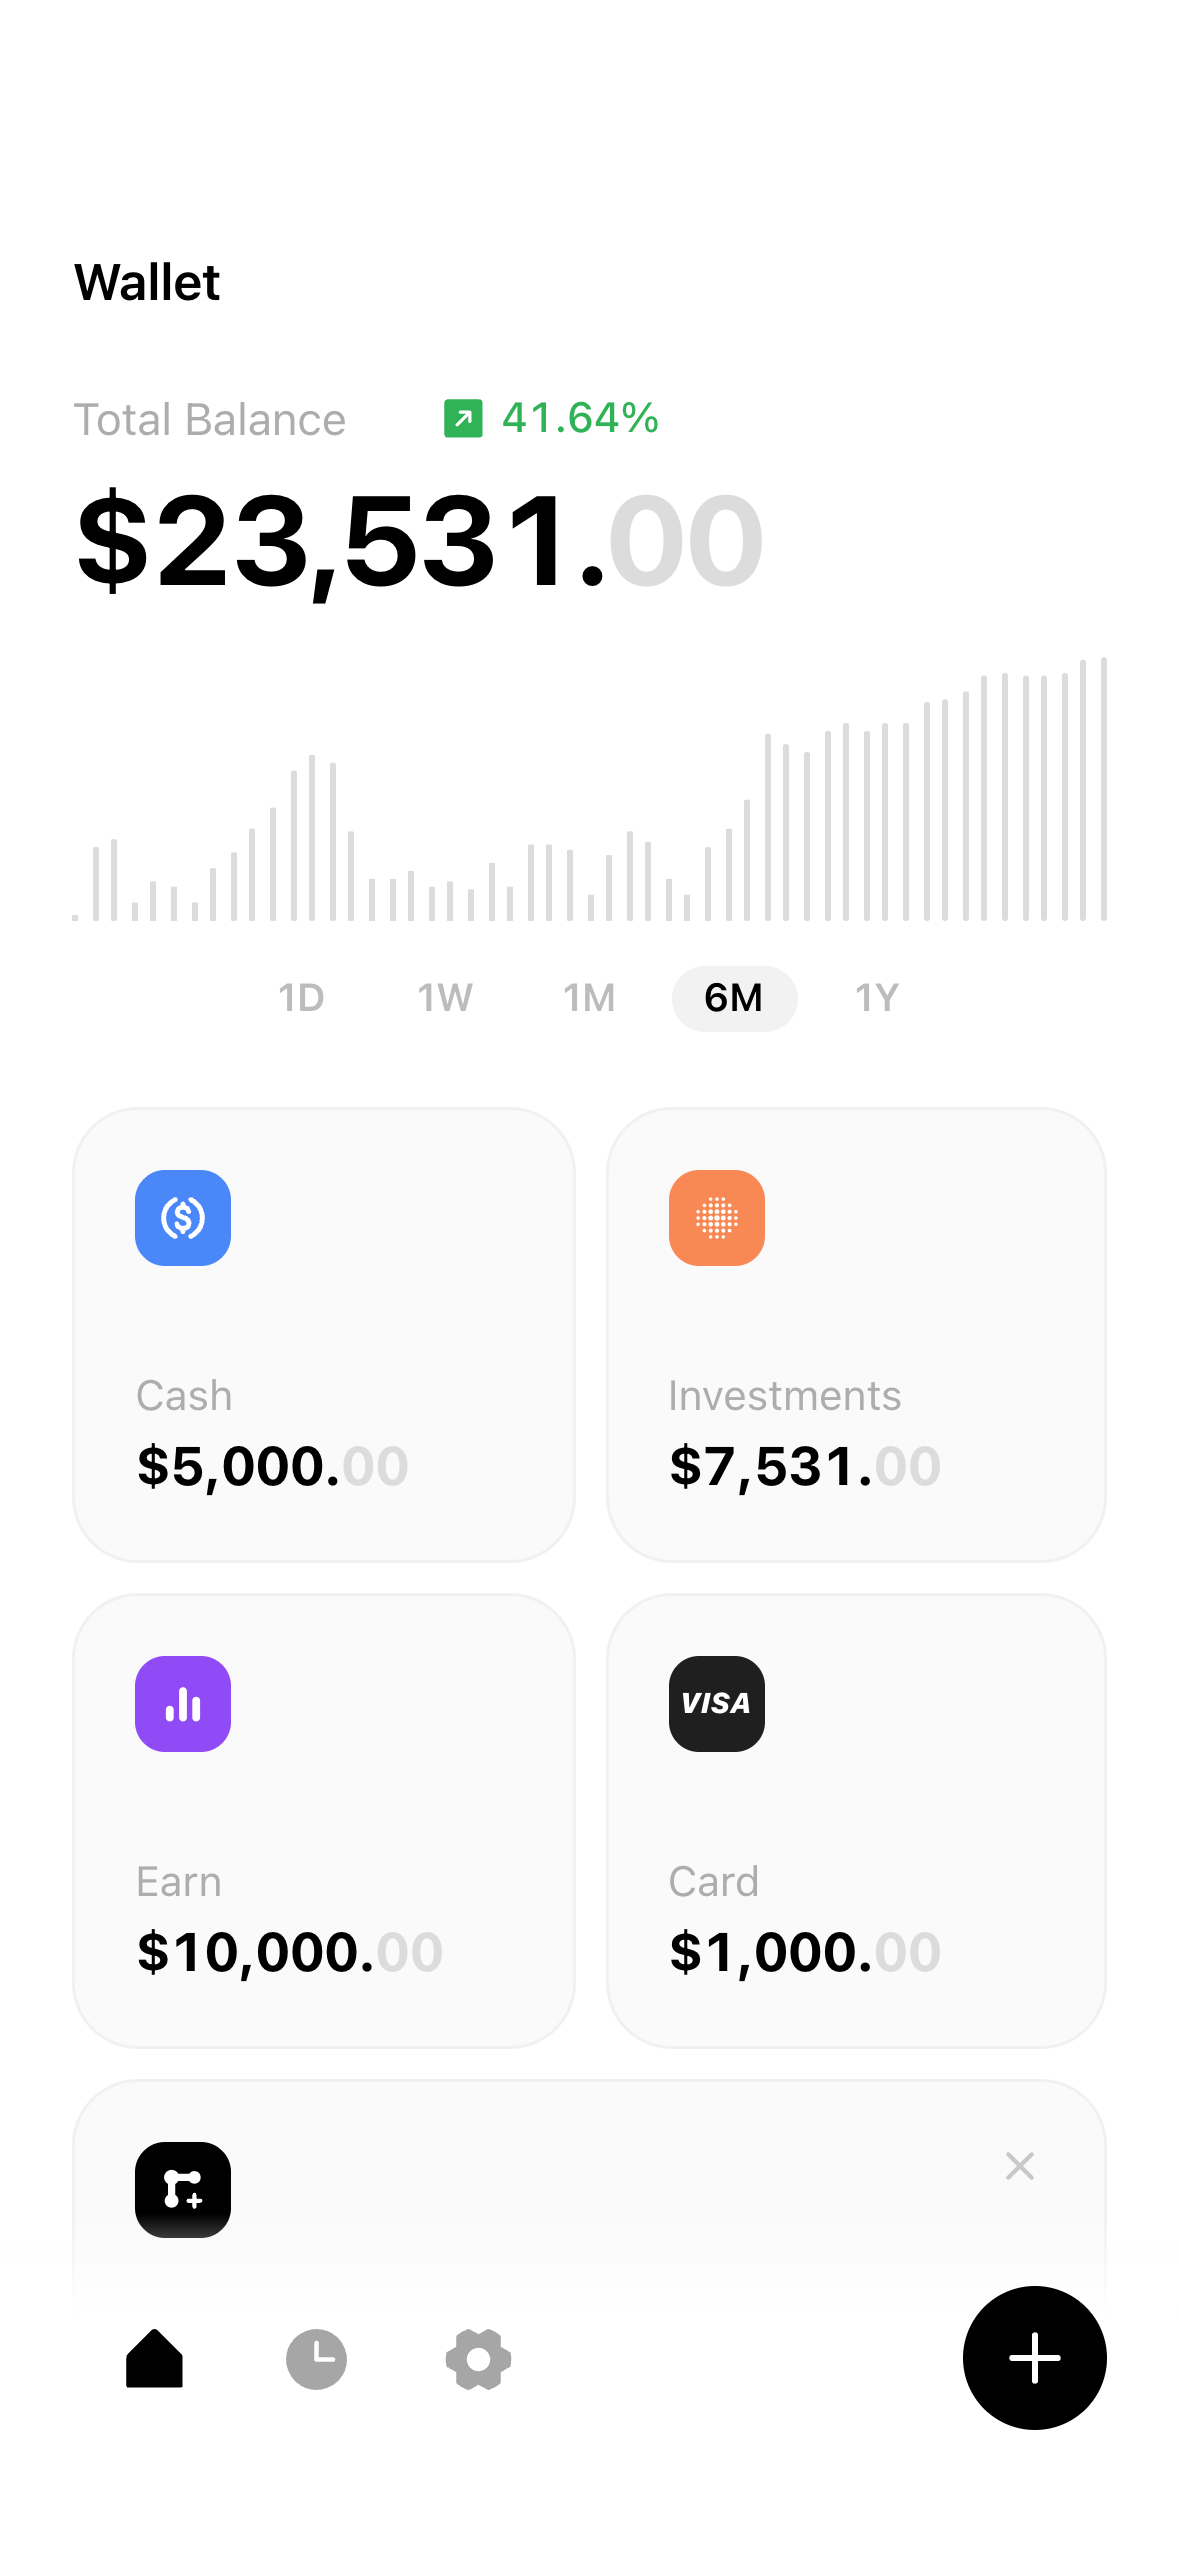
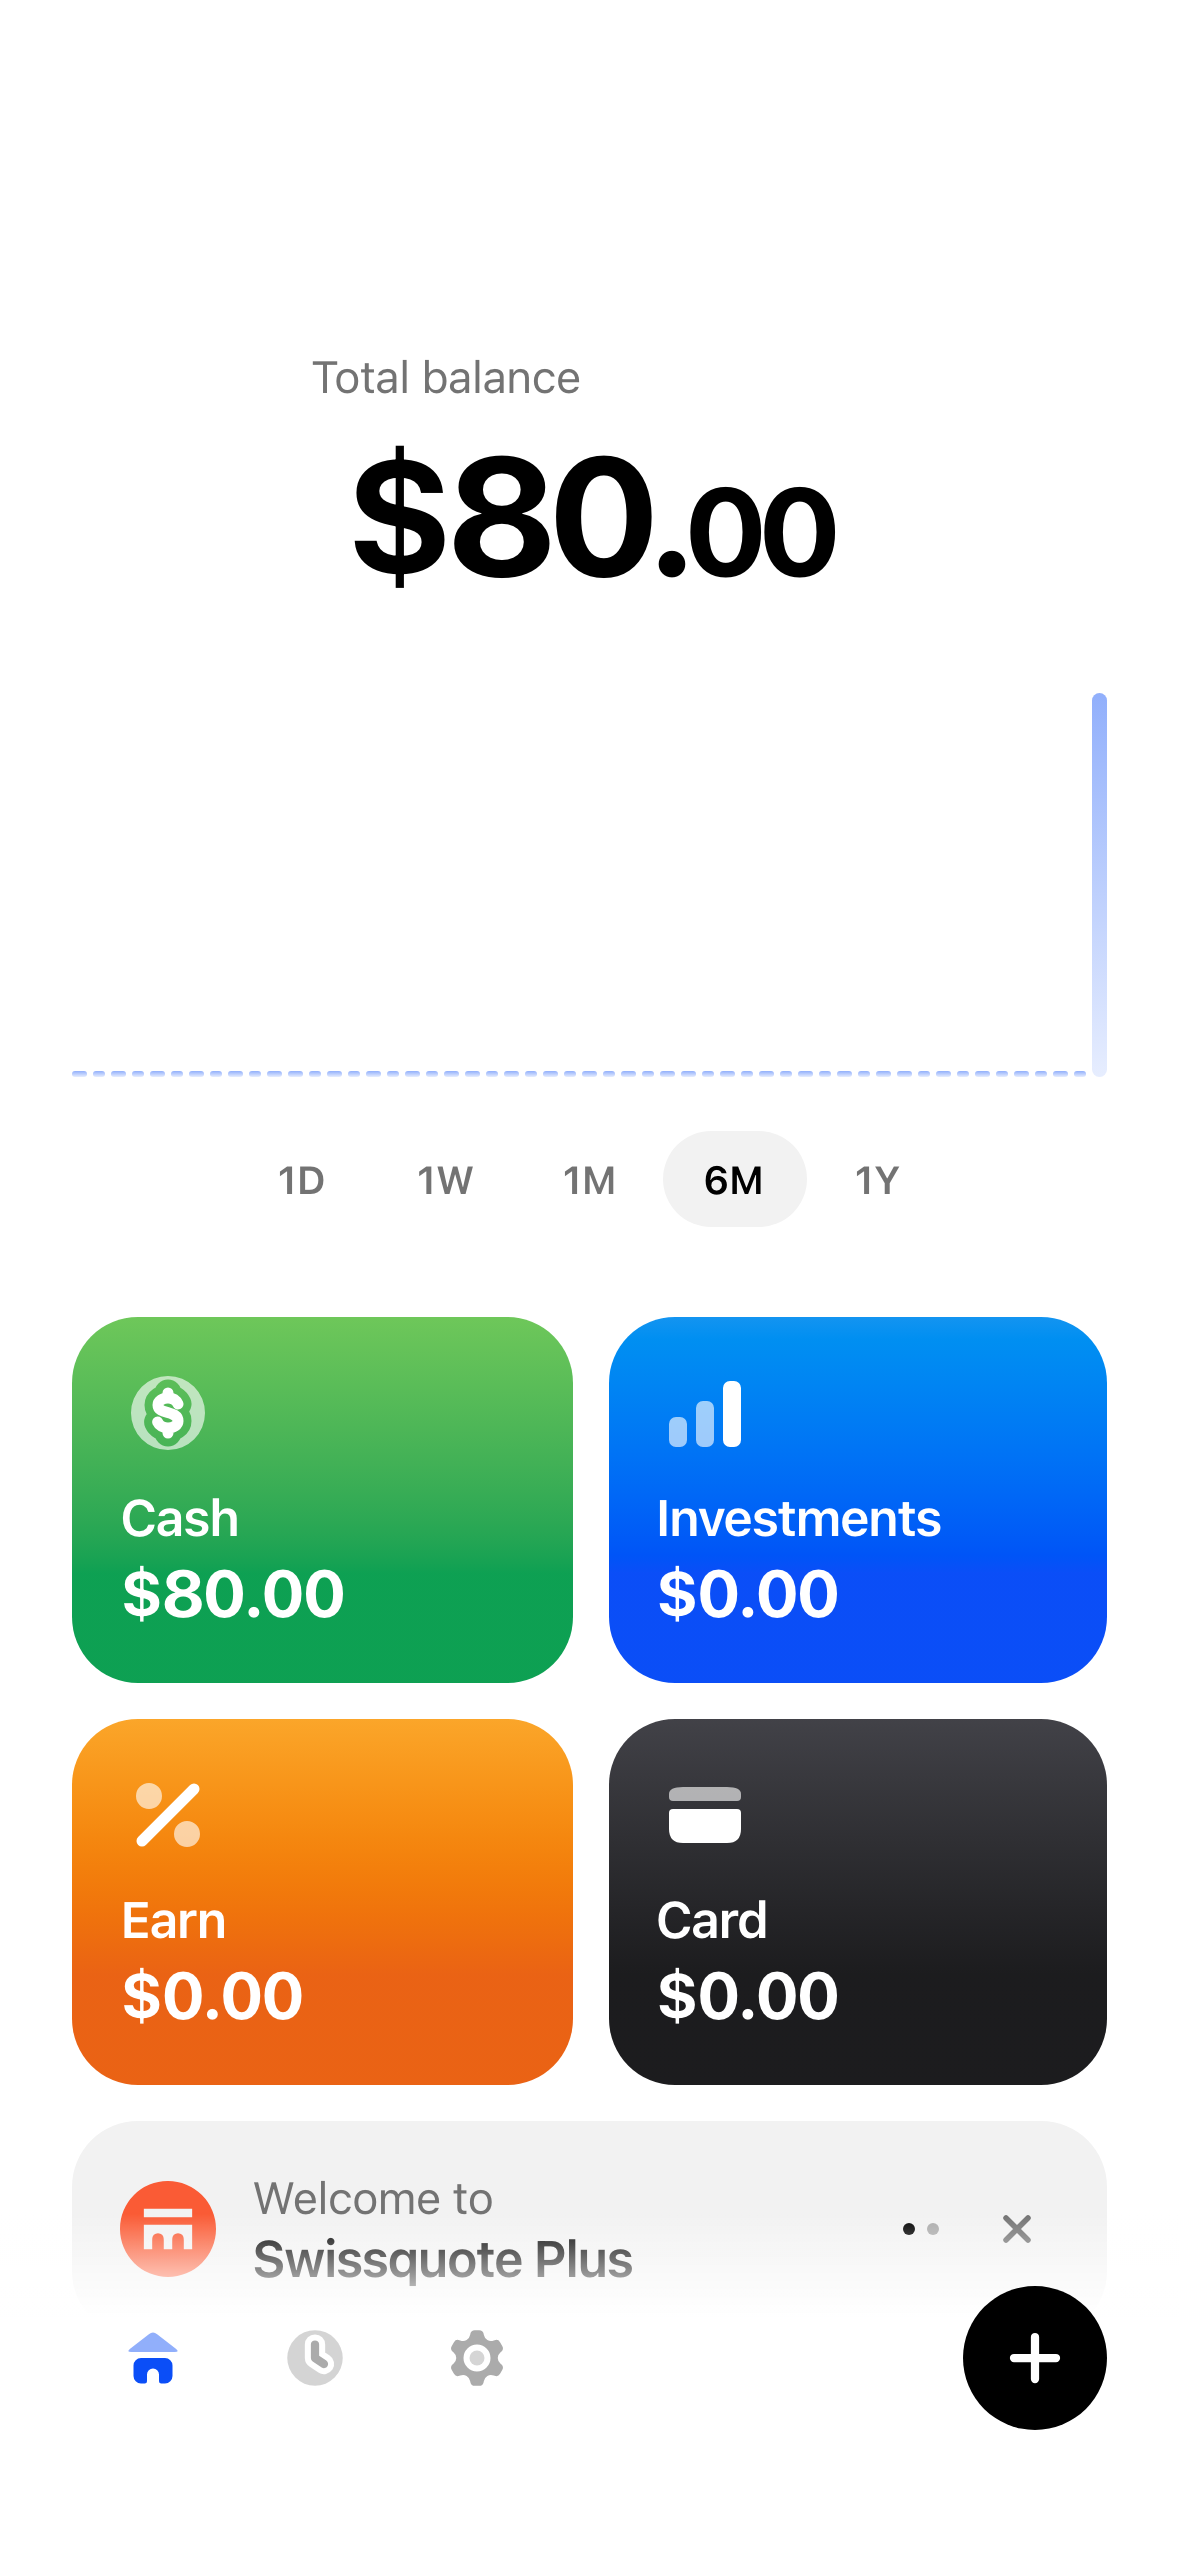
feat: node slides/capture.ts drives the real app through create, pay, refuse and recover and writes every deck screen
It takes APP_URL or PORT, so it runs against any npm run local stack.

diff --git a/slides/capture.ts b/slides/capture.ts
@@ -1,19 +1,116 @@
-// Captures app screens for the slides' phones: an iPhone 15 Pro (393 × 852 at 3x) with its safe areas,
-// so content sits below the status bar the deck draws on top. Run next to `npm run dev`:
-//   node slides/capture.ts home onboarding-secure   writes slides/screens/home.png, …
-import { chromium } from 'playwright'
+// Drives the real app through the demo story and writes the deck's phone screens to slides/screens/: an iPhone 15 Pro
+// (393 × 852 at 3x) with its safe areas, so content sits below the status bar the deck draws on top. Each phone is a
+// fresh browser profile with a virtual passkey authenticator. Run against a fresh `npm run local`:
+//
+//   node --env-file-if-exists=.env.local slides/capture.ts      (APP_URL, else http://localhost:$PORT)
+import { chromium, type Locator, type Page } from "playwright";
+import { createWalletClient, http, numberToHex, parseAbi, parseUnits, type Address, type Hex } from "viem";
+import { privateKeyToAccount } from "viem/accounts";
+import { addresses, chain, publicClient, rpcUrl } from "../lib/wallet/env.ts";
 
-const APP = process.env.API_URL ?? 'http://localhost:3000'
+const APP = process.env.APP_URL ?? `http://localhost:${process.env.PORT ?? 3000}`;
+const SANCTIONED = "0x098B716B8Aaf21512996dC57EB0615e2383E2f96"; // flagged by the compliance demo screening
+const SLOW = { timeout: 30_000 };
 
-const browser = await chromium.launch({ channel: 'chrome' })
-const context = await browser.newContext({ viewport: { width: 393, height: 852 }, deviceScaleFactor: 3, isMobile: true, hasTouch: true, reducedMotion: 'reduce' })
-const page = await context.newPage()
-const cdp = await context.newCDPSession(page)
-await cdp.send('Emulation.setSafeAreaInsetsOverride', { insets: { top: 59, bottom: 34, left: 0, right: 0 } })
+const browser = await chromium.launch();
+const swissquote = createWalletClient({ account: privateKeyToAccount(process.env.SWISSQUOTE_KEY as Hex), chain, transport: http(rpcUrl) });
 
-for (const route of process.argv.slice(2)) {
-  await page.goto(`${APP}/${route}`, { waitUntil: 'networkidle' })
-  await page.waitForTimeout(1500)
-  await page.screenshot({ path: new URL(`screens/${route}.png`, import.meta.url).pathname })
+async function mint(to: Address, amount: string) {
+  const hash = await swissquote.writeContract({ address: addresses.usdc, abi: parseAbi(["function mint(address, uint256)"]), functionName: "mint", args: [to, parseUnits(amount, 6)] });
+  await publicClient.waitForTransactionReceipt({ hash });
 }
-await browser.close()
+
+async function newPhone() {
+  const context = await browser.newContext({ viewport: { width: 393, height: 852 }, deviceScaleFactor: 3, isMobile: true, hasTouch: true, reducedMotion: "reduce" });
+  const page = await context.newPage();
+  const cdp = await context.newCDPSession(page);
+  await cdp.send("Emulation.setSafeAreaInsetsOverride", { insets: { top: 59, bottom: 34, left: 0, right: 0 } });
+  await cdp.send("WebAuthn.enable");
+  await cdp.send("WebAuthn.addVirtualAuthenticator", {
+    options: {
+      protocol: "ctap2",
+      ctap2Version: "ctap2_1",
+      transport: "internal",
+      hasResidentKey: true,
+      hasUserVerification: true,
+      isUserVerified: true,
+      hasPrf: true,
+      automaticPresenceSimulation: true,
+    },
+  });
+  page.on("pageerror", (error) => console.log(`   [page] ${error.message}`));
+  return page;
+}
+
+/** Waits for `ready`, lets the animations settle, then writes slides/screens/<name>.png. */
+async function shot(page: Page, name: string, ready: Locator, settle = 1000) {
+  await ready.waitFor(SLOW);
+  await page.waitForTimeout(settle);
+  await page.screenshot({ path: new URL(`screens/${name}.png`, import.meta.url).pathname });
+  console.log(`   ${name}.png`);
+}
+
+async function review(page: Page, to: string, amount: string) {
+  await page.goto(`${APP}/send?to=${to}`);
+  await page.getByLabel("Amount in USDC").fill(amount);
+  await page.getByText(/ available$/).waitFor(SLOW);
+}
+
+console.log("Old phone: create the wallet");
+const phone1 = await newPhone();
+await phone1.goto(`${APP}/onboarding-welcome`);
+await shot(phone1, "onboarding-welcome", phone1.getByRole("link", { name: "Create new wallet" }), 1500);
+await phone1.getByRole("link", { name: "Create new wallet" }).click();
+await shot(phone1, "onboarding-secure", phone1.getByRole("button", { name: "Create Passkey" }), 2000);
+await phone1.getByRole("button", { name: "Create Passkey" }).click();
+await phone1.getByRole("button", { name: "Split Wallet Key" }).click(SLOW);
+// The landed shares hold for 1.4 s before the Recovery Key step, so this one settles shorter.
+await shot(phone1, "onboarding-split", phone1.getByText("Independent service holds its part"), 700);
+await shot(phone1, "onboarding-recovery-key", phone1.getByRole("button", { name: "Save Recovery Key" }));
+const download = phone1.waitForEvent("download", SLOW);
+await phone1.getByRole("button", { name: "Save Recovery Key" }).click();
+const kit = await (await download).path();
+await phone1.waitForURL("**/home", SLOW);
+const wallet = await phone1.evaluate(() => JSON.parse(localStorage.getItem("swissquote.wallet.device")!).address as Address);
+await mint(wallet, "100");
+
+console.log("Old phone: pay anna.eth 20 USDC, then a sanctioned address");
+await review(phone1, "anna.eth", "20");
+await phone1.getByRole("button", { name: "Continue" }).click();
+await shot(phone1, "send", phone1.getByRole("button", { name: "Send", exact: true }));
+await phone1.getByRole("button", { name: "Send", exact: true }).click();
+await phone1.waitForURL("**/transaction-tracking?**", SLOW);
+await shot(phone1, "transaction-tracking", phone1.getByText("Completed").first());
+await phone1.goto(`${APP}/home`);
+await shot(phone1, "home", phone1.locator("[role=slider][aria-valuetext]"), 2000);
+await phone1.goto(`${APP}/history`);
+await shot(phone1, "history", phone1.getByText(/^Sent to 0x4BA4/).first());
+await review(phone1, SANCTIONED, "10");
+await phone1.getByRole("button", { name: "Continue" }).click();
+await shot(phone1, "send-refused-sanctioned", phone1.getByRole("alert"));
+// The refused review keeps its recipient as a draft, which would reopen the chooser over Home.
+await phone1.evaluate(() => sessionStorage.removeItem("swissquote:send-to"));
+
+console.log("New phone: recover with the Recovery Key file");
+const phone2 = await newPhone();
+await phone2.goto(`${APP}/recover`);
+await shot(phone2, "recover", phone2.getByText("Recover your wallet"));
+await phone2.locator("input[type=file]").setInputFiles(kit);
+await phone2.getByRole("button", { name: "Continue" }).click();
+await shot(phone2, "recover-id", phone2.getByRole("button", { name: "Scan ID" }));
+await phone2.getByRole("button", { name: "Scan ID" }).click();
+await phone2.getByRole("button", { name: "Restore with Face ID" }).click(SLOW);
+await shot(phone2, "recover-hold", phone2.getByText("Your wallet will be restored on"));
+await phone1.goto(`${APP}/home`);
+await shot(phone1, "home-recovery-alert", phone1.getByText("Someone started recovering your wallet"), 2000);
+await publicClient.request({ method: "evm_increaseTime", params: [numberToHex(48 * 3600 + 10)] } as never);
+await publicClient.request({ method: "evm_mine", params: [] } as never);
+await shot(phone2, "recover-ready", phone2.getByText("Your wallet is ready to restore"));
+
+// Last, so Home and History above show the 80 USDC left after the first payment.
+console.log("Old phone: a large payment, with enough USDC to cover it");
+await mint(wallet, "5000");
+await review(phone1, "anna.eth", "2500");
+await shot(phone1, "send-large", phone1.getByText("$5,080.00 available"));
+
+await browser.close();
